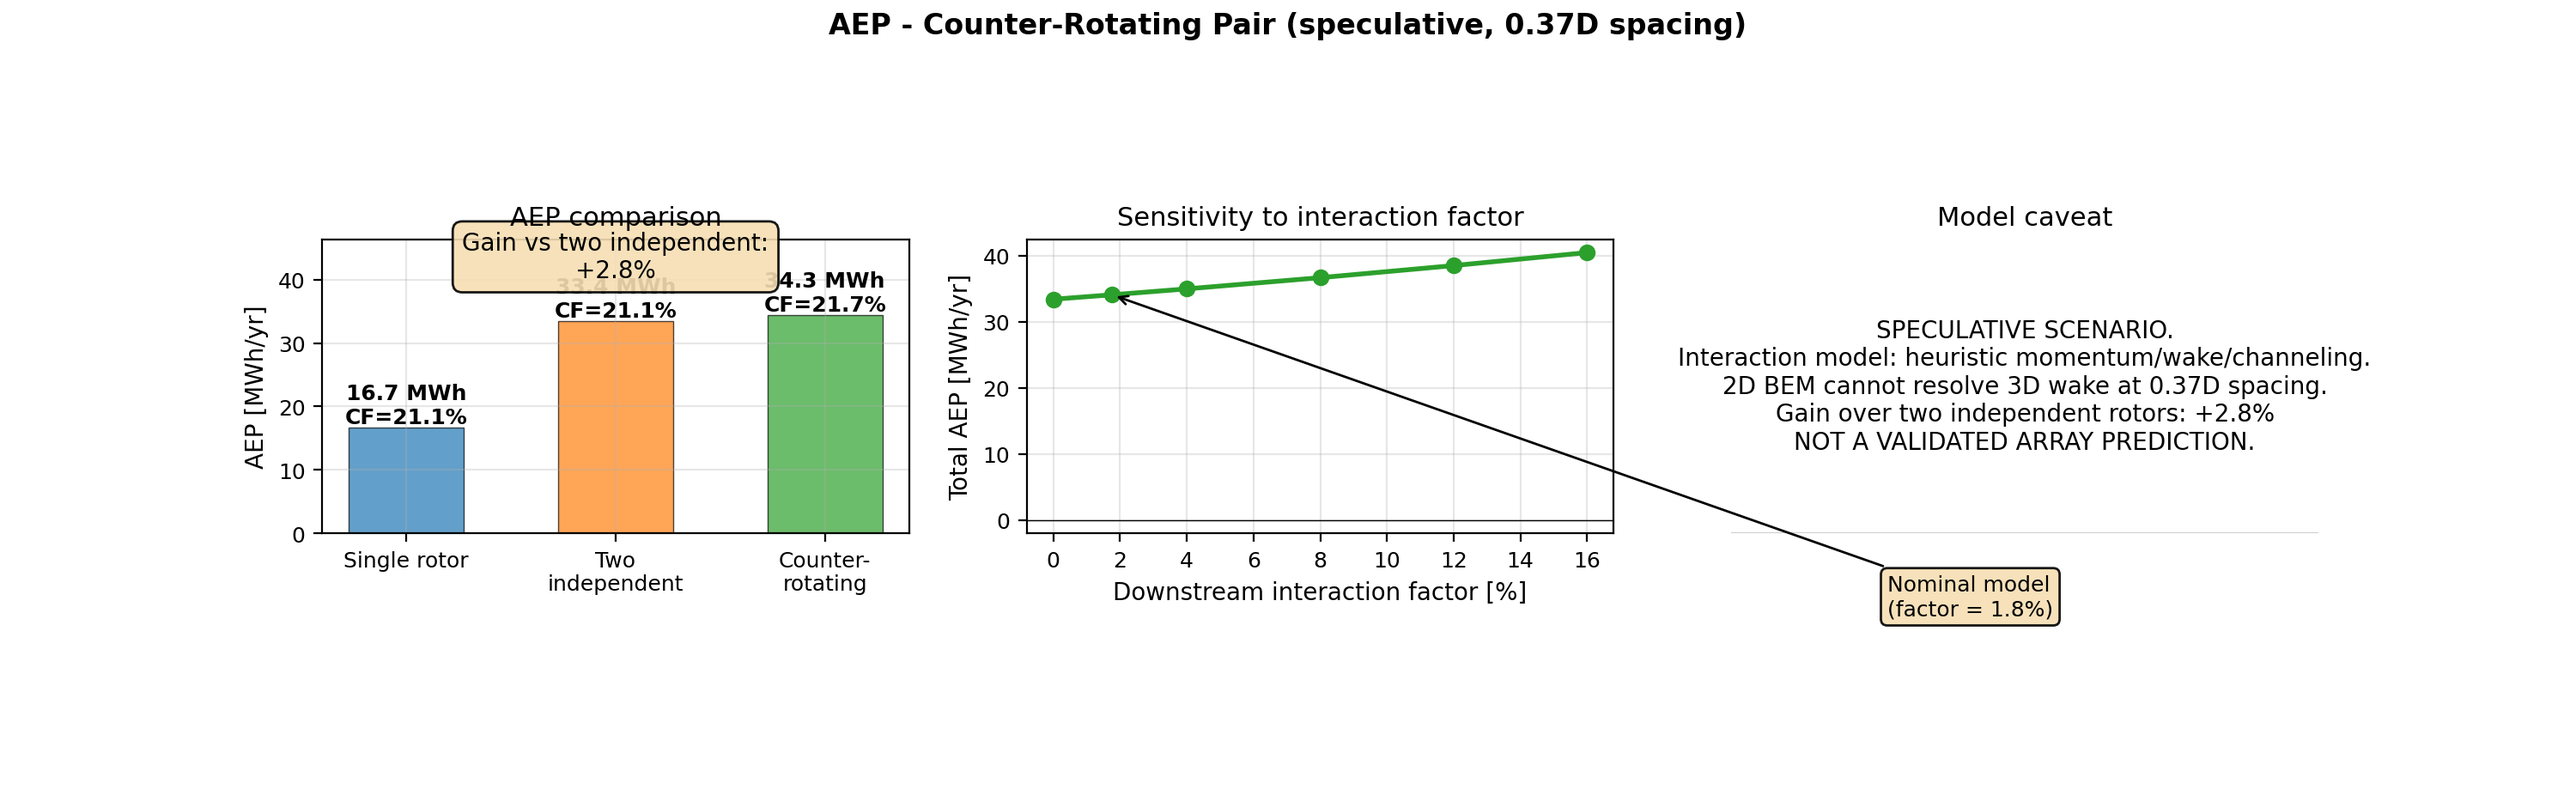
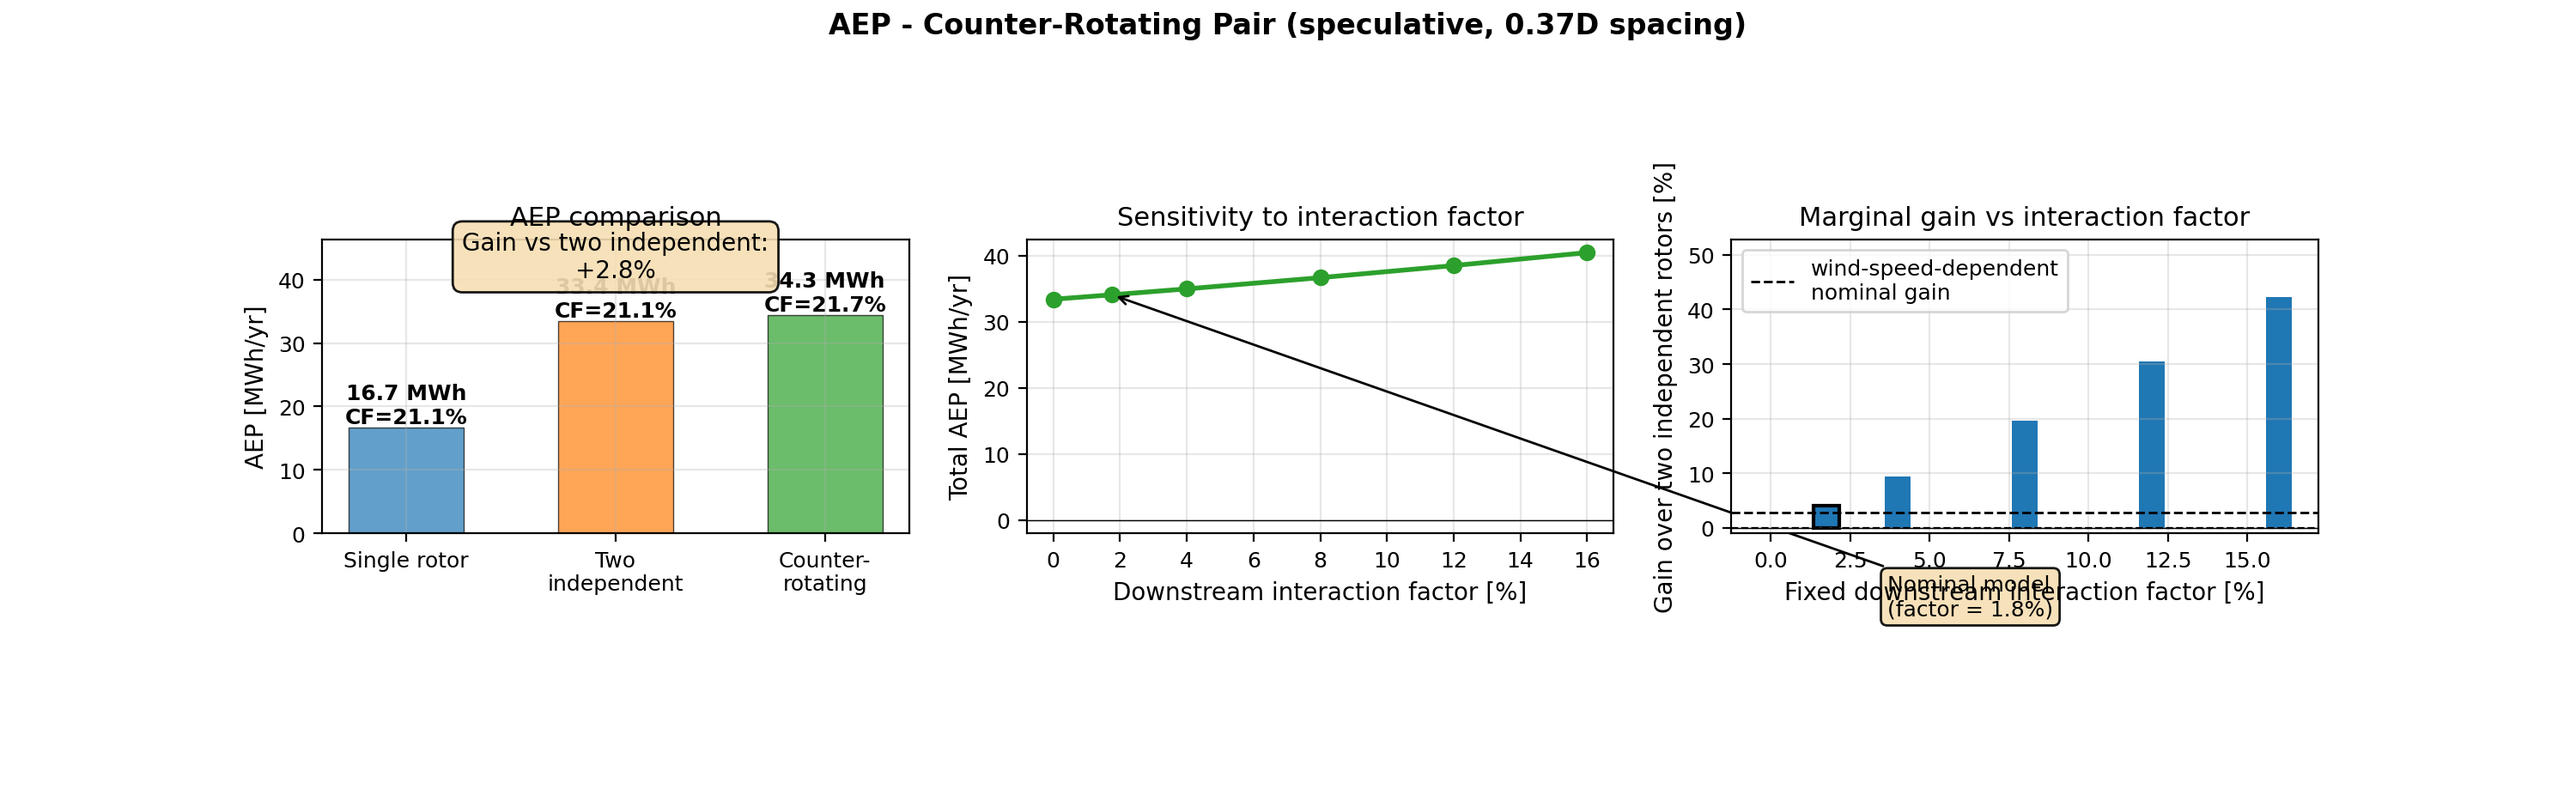
Replace text-only AEP panels with data panels; add no-text-only-panel guard

Changed region(s): [[0.651, 0.2437, 0.93, 0.7617], [0.651, 0.5789, 0.682, 0.6094], [0.62, 0.4875, 0.651, 0.518]]

diff --git a/scripts/plot_aep.py b/scripts/plot_aep.py
@@ -532,25 +532,32 @@ def plot_aep_turbulent(data: dict[str, Any], out_path: str):
     ax.set_ylim(bottom=0, top=max(aep_vals) * 1.3)
     ax.grid(True, alpha=GRID_ALPHA, axis='y')
 
-    # Panel 3: Turbulence effect explanation (conditional on the actual results)
+    # Panel 3: Gain decomposition (bar chart from JSON data)
+    # Bar heights: idealised cube-bias reference (3·I²·100), residual, simulated gain.
+    # Vertical spread (std) is temporal variability across seeds, not a confidence interval.
     ax = axes[2]
-    # Idealised cube-bias reference: E[U^3]/(E[U])^3 for Gaussian turbulence
-    # Under Gaussian assumption: E[U^3]/(E[U])^3 = 1 + 3*I^2 (no clipping, no limits)
     I = data['turbulence']['I']
-    idealised_gain = (1.0 + 3.0 * I**2 - 1.0) * 100.0  # percent
-    ax.text(0.5, 0.5,
-            f"Turbulence effect: {gain:+.1f}% on AEP "
-            f"({('gain' if gain >= 0 else 'loss')}).\n"
-            f"Idealised reference (E[U^3]/E[U]^3, I={I:.2f}, no clipping/limits): "
-            f"+{idealised_gain:.1f}%.\n"
-            "Possible mechanisms (not established causation):\n"
-            "1. Cube bias: E[U^3] > (E[U])^3 (Jensen)\n"
-            "2. Cp(U) convexity: E[Cp(U)] > Cp(E[U])\n"
-            "Vertical bars: seed-to-seed std (temporal variability), "
-            "not a confidence interval.",
-            ha='center', va='center', transform=ax.transAxes, fontsize=FONT_SIZE)
-    ax.set_title("Turbulence effect (conditional on results)")
-    ax.axis('off')
+    sim_gain = data['turbulence_effect_pct']
+    cube_bias = 3.0 * I * I * 100.0
+    residual = sim_gain - cube_bias
+
+    labels = ["Idealised\ncube bias\n(3·I²·100)", "Residual\n(Cp convexity\n+ induction)",
+              "Simulated\nAEP gain"]
+    heights = [cube_bias, residual, sim_gain]
+    colors = [COL_RIGID, COL_PASSIVE_KLOAD, COL_HIGH_BRANCH]
+    bars = ax.bar(range(3), heights, color=colors, edgecolor='k', lw=0.5, width=0.6)
+    for bar, h in zip(bars, heights):
+        ax.text(bar.get_x() + bar.get_width() / 2, bar.get_height() + 0.05,
+                f"{h:+.1f}%", ha='center', va='bottom', fontsize=FONT_SIZE - 1)
+    ax.axhline(0, color='k', lw=0.8, ls='--')
+    ax.set_xticks(range(3))
+    ax.set_xticklabels(labels, fontsize=FONT_SIZE - 1)
+    ax.set_ylabel("AEP gain over steady wind [%]")
+    ax.set_title("Gain decomposition")
+    ax.text(0.02, 0.97, "Idealised reference (E[U^3]/E[U]^3 = 3·I²·100)", transform=ax.transAxes,
+            ha='left', va='top', fontsize=FONT_SIZE - 1)
+    ax.set_ylim(bottom=min(0, min(heights)) - 1.0, top=max(heights) * 1.25)
+    ax.grid(True, alpha=GRID_ALPHA, axis='y')
 
     title = f"AEP - Turbulent Wind (I = {data['turbulence']['I']*100:.0f}%, L = {data['turbulence']['L_m']:.0f} m)"
     finalize_figure(fig, suptitle=title)
@@ -638,17 +645,28 @@ def plot_aep_counter_rotating(data: dict[str, Any], out_path: str):
                                 f"Nearest evaluated\n(factor = {factors[nominal_idx]:.1f}%)",
                                 xytext=(25, -15))
 
-    # Panel 3: Model caveat
+    # Panel 3: Marginal gain vs interaction factor
+    # SPECULATIVE SCENARIO: heuristic interaction model; NOT A VALIDATED ARRAY PREDICTION.
     ax = axes[2]
-    ax.text(0.5, 0.5,
-            "SPECULATIVE SCENARIO.\n"
-            "Interaction model: heuristic momentum/wake/channeling.\n"
-            "2D BEM cannot resolve 3D wake at 0.37D spacing.\n"
-            f"Gain over two independent rotors: {gain_vs_two:+.1f}%\n"
-            "NOT A VALIDATED ARRAY PREDICTION.",
-            ha='center', va='center', transform=ax.transAxes, fontsize=FONT_SIZE)
-    ax.set_title("Model caveat")
-    ax.axis('off')
+    factors = [row['interaction_factor'] * 100 for row in sensitivity]
+    marginal = [row['gain_vs_single_percent'] - 100.0 for row in sensitivity]
+    nominal_gain = data['counter_rotating']['vs_two_independent_rotors_improvement_percent']
+
+    nominal_idx = next((i for i, s in enumerate(sensitivity) if s.get('is_nominal')), None)
+    bars = ax.bar(factors, marginal, color=COL_PASSIVE_KLOAD, edgecolor='none',
+                  width=0.8)
+    if nominal_idx is not None:
+        bars[nominal_idx].set_edgecolor('k')
+        bars[nominal_idx].set_linewidth(1.5)
+    ax.axhline(0, color='k', lw=0.8, ls='--')
+    ax.axhline(nominal_gain, color='k', lw=1.0, ls='--',
+               label="wind-speed-dependent\nnominal gain")
+    ax.set_xlabel("Fixed downstream interaction factor [%]")
+    ax.set_ylabel("Gain over two independent rotors [%]")
+    ax.set_title("Marginal gain vs interaction factor")
+    ax.set_ylim(bottom=min(0, min(marginal)) - 1.0, top=max(marginal) * 1.25)
+    ax.grid(True, alpha=GRID_ALPHA, axis='y')
+    ax.legend(fontsize=FONT_SIZE - 1)
 
     title = "AEP - Counter-Rotating Pair (speculative, 0.37D spacing)"
     finalize_figure(fig, suptitle=title, rect=[0.06, 0.05, 0.98, 0.93])

diff --git a/tests/test_figures.py b/tests/test_figures.py
@@ -529,10 +529,29 @@ def test_bounding_boxes_no_overlap():
                         pytest.fail(f"{fname}: legend overlaps with text '{label.get_text()[:30]}'")
 
 
-    # Also check no hardcoded aep.png (deleted)
-    readme = (ROOT / "README.md").read_text()
-    assert "aep.png" not in readme, "README must not reference deleted aep.png"
-    assert "aep_results.json" not in readme, "README must not reference deleted aep_results.json"
+def test_readme_figure_references():
+    """Every docs/<name>.png reference in README.md must point to an
+    existing, manifest-registered figure (forward direction only).
+
+    The reverse direction is intentionally NOT checked: several committed
+    figures (diag_qa.png, finite_span_ablation.png,
+    finite_span_validation.png, spearman.png, aep_counter_rotating.png)
+    are reproducibility artifacts not referenced from README.
+    """
+    readme = (ROOT / "README.md").read_text(encoding="utf-8")
+    manifest = json.loads(MANIFEST.read_text(encoding="utf-8"))
+    registered = set(manifest.get("figures", {}))
+
+    import re
+
+    referenced = {
+        m.group(1)
+        for m in re.finditer(r"docs/([\w.-]+\.png)", readme)
+    }
+    for name in sorted(referenced):
+        png = DOCS / name
+        assert png.is_file(), f"README references {png} but it does not exist"
+        assert name in registered, f"README references {name} but it is not in figure_manifest.json"
 
 
 def test_scaleup_legend_no_overlap_branch_traced_tick():
@@ -588,6 +607,38 @@ def test_scaleup_legend_no_overlap_branch_traced_tick():
         assert bbox.y0 >= 0 and bbox.y1 <= canvas.height, (
             f"{name} bbox outside canvas vertically: {bbox} vs {canvas}"
         )
+
+
+def test_no_aep_panel_is_text_only():
+    """Every data-bearing panel must have at least one plotted artist.
+
+    Skips the dedicated legend axis and any explicitly-disabled
+    axis (ax.axison == False); those are text-only by design.
+    """
+    for fname, plot_fn in (
+        ("aep_turbulent.json", pa.plot_aep_turbulent),
+        ("aep_counter_rotating.json", pa.plot_aep_counter_rotating),
+    ):
+        data = _load_json(fname)
+        with tempfile.TemporaryDirectory() as td:
+            out = Path(td) / "out.png"
+            captured = _capture_plot(plot_fn, data, out)
+        fig = captured["fig"]
+        legend_ax = captured["legend_ax"]
+        for ax in fig.axes:
+            if ax is legend_ax:
+                continue
+            if not ax.axison:
+                continue
+            artists = (
+                list(ax.lines)
+                + list(ax.patches)
+                + list(ax.collections)
+            )
+            assert artists, (
+                f"{fname}: axis {ax.get_title()!r} has no data "
+                f"artists (lines/patches/collections)"
+            )
 
 
 def test_small_machine_rating_label_in_watts():

diff --git a/CHANGELOG.md b/CHANGELOG.md
@@ -97,6 +97,31 @@ and this project adheres to [Semantic Versioning](https://semver.org/spec/v2.0.0
   because cycle only reached 56 % of stall; now uses cycle extremes.
 - **diag_qa figure regeneration**: `make_all_figures.py` now runs `--check`
   first and fails on non-zero exit code before producing figure.
+- **AEP figure text-only panels**: replaced the third panel in
+  `docs/aep_turbulent.png` and `docs/aep_counter_rotating.png`
+  with data-bearing charts drawn from the same JSON already
+  loaded by the plotting functions. Turbulent: bar decomposition
+  of the simulated AEP gain into the idealised cube-bias
+  reference (3·I²·100) and the residual. Counter-rotating:
+  marginal gain over two independent rotors at each fixed
+  interaction factor, with the wind-speed-dependent nominal
+  gain overlaid as a reference line. No result JSON was
+  regenerated; the figure manifest was rewritten by
+  `scripts/make_all_figures.py --only`. Added
+  `tests/test_figures.py::test_no_aep_panel_is_text_only` as a
+  regression guard.
+- **Repo hygiene pass**: restored
+  `tests/test_figures.py::test_readme_figure_references` (which
+  was missing; its tail was stranded inside
+  `test_bounding_boxes_no_overlap`). Removed a no-op line in
+  `tests/test_ds_sensitivity.py::test_ds_constants_ranking`.
+  Renumbered duplicate `## 6.` in
+  `docs/prototype_validation_plan.md`. Deleted two unused
+  inline generators (`iv_ham_2_0_cp`, `iv_ham_2_5_cp`) from
+  `scripts/build_readme.py`. Added `.uq_dev/` to `.gitignore`
+  (exploratory UQ output was previously untracked). No producer,
+  result JSON, or stamp was touched; all result JSONs remain
+  bit-identical and fresh.
 
 ### Fixed (figure round)
 - **Counter-rotating AEP figure**: "Two independent" baseline is now 2× the
